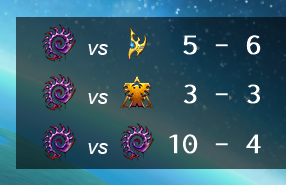
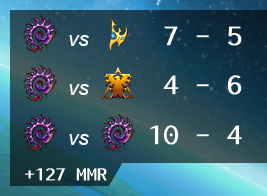
updated readme.

diff --git a/src/main/Settings.java b/src/main/Settings.java
@@ -12,37 +12,29 @@ import static main.Main.startMMR;
 public class Settings {
 
     static Map<String, String> paths;
-    static String DIR_SCORES;
     static String DIR_REPLAYS;
     static String PLAYER;
     static String PATH_PYTHON;
     static String PATH_SCRIPT;
+    static String userDir = System.getProperty("user.dir") + File.separator;
 
     public Settings() throws IOException {
         InputStream is = getClass().getResourceAsStream("resources/settings.cfg");
         BufferedReader cfgTemplate = new BufferedReader(new InputStreamReader(is, StandardCharsets.UTF_8));
-        File userCfg = new File(System.getProperty("user.dir") + File.separator + "settings.cfg");   // creates settings.cfg in jar execution dir
+        File userCfg = new File(userDir + "settings.cfg");
 
         InputStream script = getClass().getResourceAsStream("resources/printReplayShort.py");
         BufferedReader br = new BufferedReader(new InputStreamReader(script, StandardCharsets.UTF_8));
-        File pythonScript = new File(System.getProperty("user.dir") + File.separator + "printReplayShort.py");
+        File pythonScript = new File(userDir + "printReplayShort.py");
 
         paths = new HashMap<>();
         loadCfg(cfgTemplate, userCfg);
         createPythonScript(br, pythonScript);
 
-        DIR_SCORES  = setPath("scores");
-        DIR_REPLAYS = setPath("replays");
-        PLAYER      = setPath("player");
-        PATH_PYTHON = setPath("python");
+        DIR_REPLAYS = paths.get("replays");
+        PLAYER      = paths.get("player");
+        PATH_PYTHON = paths.get("python");
         PATH_SCRIPT = pythonScript.toString();
-    }
-
-    String setPath(String type) {
-        if (paths.get(type) == null && type.equals("scores")) {
-            return System.getProperty("user.dir") + File.separator;
-        }
-        return paths.get(type);
     }
 
     void createPythonScript(BufferedReader br, File pythonScript) throws IOException {
@@ -84,7 +76,7 @@ public class Settings {
     }
 
     void loadMMR() throws IOException {
-        File mmrFile = new File(System.getProperty("user.dir") + File.separator + "MMR.txt");
+        File mmrFile = new File(userDir + "MMR.txt");
         if (mmrFile.exists()) {
             Scanner scan = new Scanner(mmrFile);
             currentMMR = startMMR = Integer.parseInt(scan.nextLine());

diff --git a/src/main/FileManager.java b/src/main/FileManager.java
@@ -4,8 +4,9 @@ import java.io.*;
 import java.util.Arrays;
 import java.util.Scanner;
 
-import static main.Main.*;
+import static main.Main.startMMR;
 import static main.Settings.DIR_REPLAYS;
+import static main.Settings.userDir;
 
 public class FileManager {
 
@@ -20,11 +21,11 @@ public class FileManager {
     public FileManager() {
         replayDir = new File(DIR_REPLAYS);
         numFiles = numberOfFiles();
-        MMRdiff_txt =  new File(System.getProperty("user.dir") + File.separator + "MMR-diff.txt");
-        MMR_txt =  new File(System.getProperty("user.dir") + File.separator + "MMR.txt");
-        ZvP_txt =  new File(System.getProperty("user.dir") + File.separator + "ZvP.txt");
-        ZvT_txt =  new File(System.getProperty("user.dir") + File.separator + "ZvT.txt");
-        ZvZ_txt =  new File(System.getProperty("user.dir") + File.separator + "ZvZ.txt");
+        MMRdiff_txt = new File(userDir + "MMR-diff.txt");
+        MMR_txt = new File(userDir + "MMR.txt");
+        ZvP_txt = new File(userDir + "ZvP.txt");
+        ZvT_txt = new File(userDir + "ZvT.txt");
+        ZvZ_txt = new File(userDir + "ZvZ.txt");
     }
 
     static void saveFile(File f, int[] score) throws IOException {

diff --git a/readme.md b/readme.md
@@ -1,6 +1,6 @@
 I wrote a web [scraper](https://gitlab.com/Rairden/SC2-StatsScraper/-/tree/release-win10) for Starcraft 2.
 
-Unlike the web scraper, this program doesn't require using [sc2replaystats.com](https://sc2replaystats.com/). It simply uses a python module [sc2reader](https://pypi.org/project/sc2reader/) to parse your local replay files. Since I don't know python, I used Java to parse the python stdout and keep track of your win/loss stats. Java checks if your replay folder has a new file (every 5 seconds), and if so, writes your stats to three text files.
+Unlike the web scraper, this program doesn't require using [sc2replaystats.com](https://sc2replaystats.com/). It simply uses a python module [sc2reader](https://pypi.org/project/sc2reader/) to parse your local replay files. Since I don't know python, I used Java to parse the python stdout and keep track of your win/loss stats. Java checks if your replay folder has a new file (every 5 seconds), and if so, writes your stats to five text files in the current folder.
 
 ![overlay](img/SC2-overlay.png)
 
@@ -9,8 +9,8 @@ Unlike the web scraper, this program doesn't require using [sc2replaystats.com](
 1. Install Java 14 - Java(TM) SE Runtime Environment (build 14.0.1+7)
 2. Build and create a jar from source code.
 3. Place the application (SC2-replay.jar) anywhere on your system.
-4. Install python and add it to your PATH environment variable.
-5. Install the python `sc2reader` module.
+4. Install python and add it to your PATH environment variable (optional).
+5. Install the python `sc2reader`* module.
 
 ```sh
 pip install sc2reader
@@ -34,10 +34,43 @@ replays=E:\SC2\replayBackup
 player=Gixxasaurus|Rairden
 ```
 
-Change this line to wherever SC2 saves replays, or scelight is configured to backup replays. And change the player line to your SC2 account name.
+Change this line to wherever SC2 saves replays, or scelight is configured to backup replays. And change the player line to your SC2 account name(s), separated by a vertical bar.
 
-I really like this program compared to my web scraper. The scraper would take 70 seconds (waiting on sc2replaystats.com to process the replay). This updated version there is no delay (it takes 150 ms on 8 replays).
+After you play SC2 or put a replay in your watch folder, the app will generate 5 .txt files you can use as overlays in something like OBS for streaming:
 
-Web scraper: 551 lines of code  
-This app: 251 lines of code
+* ZvP.txt
+* ZvT.txt
+* ZvZ.txt
+* MMR.txt
+* MMR-diff.txt
+
+## How the program works
+
+1. loads your personal settings from `settings.cfg`
+2. the app doesn't do anything unless a new file is detected every 5 seconds in the replay folder
+3. call `printReplayShort.py` from java, then parses the output with java
+    - 1st cmd = calc winrates of entire folder (3 - 7, etc)
+    - 2nd cmd = calc the newest replays' MMR rating
+
+```sh
+python printReplayShort.py E:\SC2\replayBackup
+python printReplayShort.py newestReplay.SC2Replay
+```
+
+4. saves output to txt files of your current MMR, and the difference of your start/end MMR
+5. does not save to disk if the stats have not changed (for Zv*.txt)
+
+The program works for many different combinations. The replay folder can start empty, or have replays in it. Your `MMR.txt` can be default `0` or `3100` to start.
+
+So how do I use this app? Have 2 replays folders. One archive folder with 100's of replays, and one empty folder. Before you play, move your 10 session replays from your watch folder to your archive folder so it's empty. Now run the app.
+
+I really like this program compared to my web scraper. The scraper would take 70 seconds (waiting on sc2replaystats.com to process the replay). The updated [v1](https://gitlab.com/Rairden/SC2-replay/-/blob/9887e88367a81ea22480b6377c49af42bc322432/src/main/Main.java) version has no delay (it takes 150 ms on 8 replays). On this v2 with a MMR counter, it takes 450 ms (1 replay or 8 replays).
+
+| app         | lines of code | runtime | MMR counter |
+|-------------|:-------------:|:-------:|:-----------:|
+| Web scraper |      551      |         |          no |
+| This app v1 |      251      |  150 ms |          no |
+| This app v2 |      401      |  450 ms |         yes |
+
+\* My printReplayShort.py script also needs the package called `mpyq`. As of this writing, when you install `sc2reader` it auto-installs `mpyq`.
 
